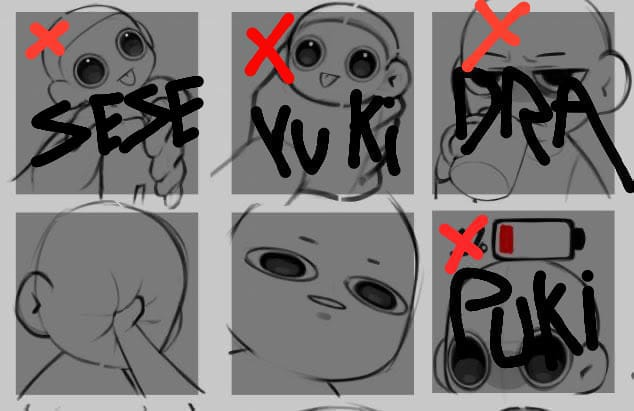
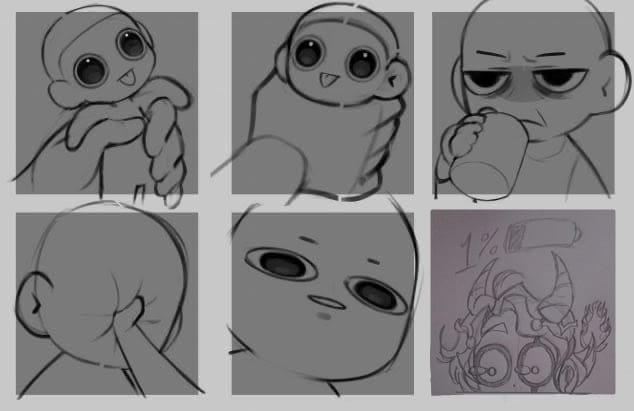
Add files via upload

diff --git a/index.html b/index.html
@@ -296,10 +296,9 @@ nav{
 
 .banner-imagem{
   width:100%;
+  height:auto;
   display:block;
   border-radius:24px;
-  object-fit:cover;
-  aspect-ratio:16/7;
   background:linear-gradient(160deg, var(--azul-claro), var(--rosa-claro));
 }
 
@@ -750,10 +749,6 @@ footer p{
 
   section.bloco{
     padding:60px 5%;
-  }
-
-  .banner-imagem{
-    aspect-ratio:16/10;
   }
 }
 </style>
